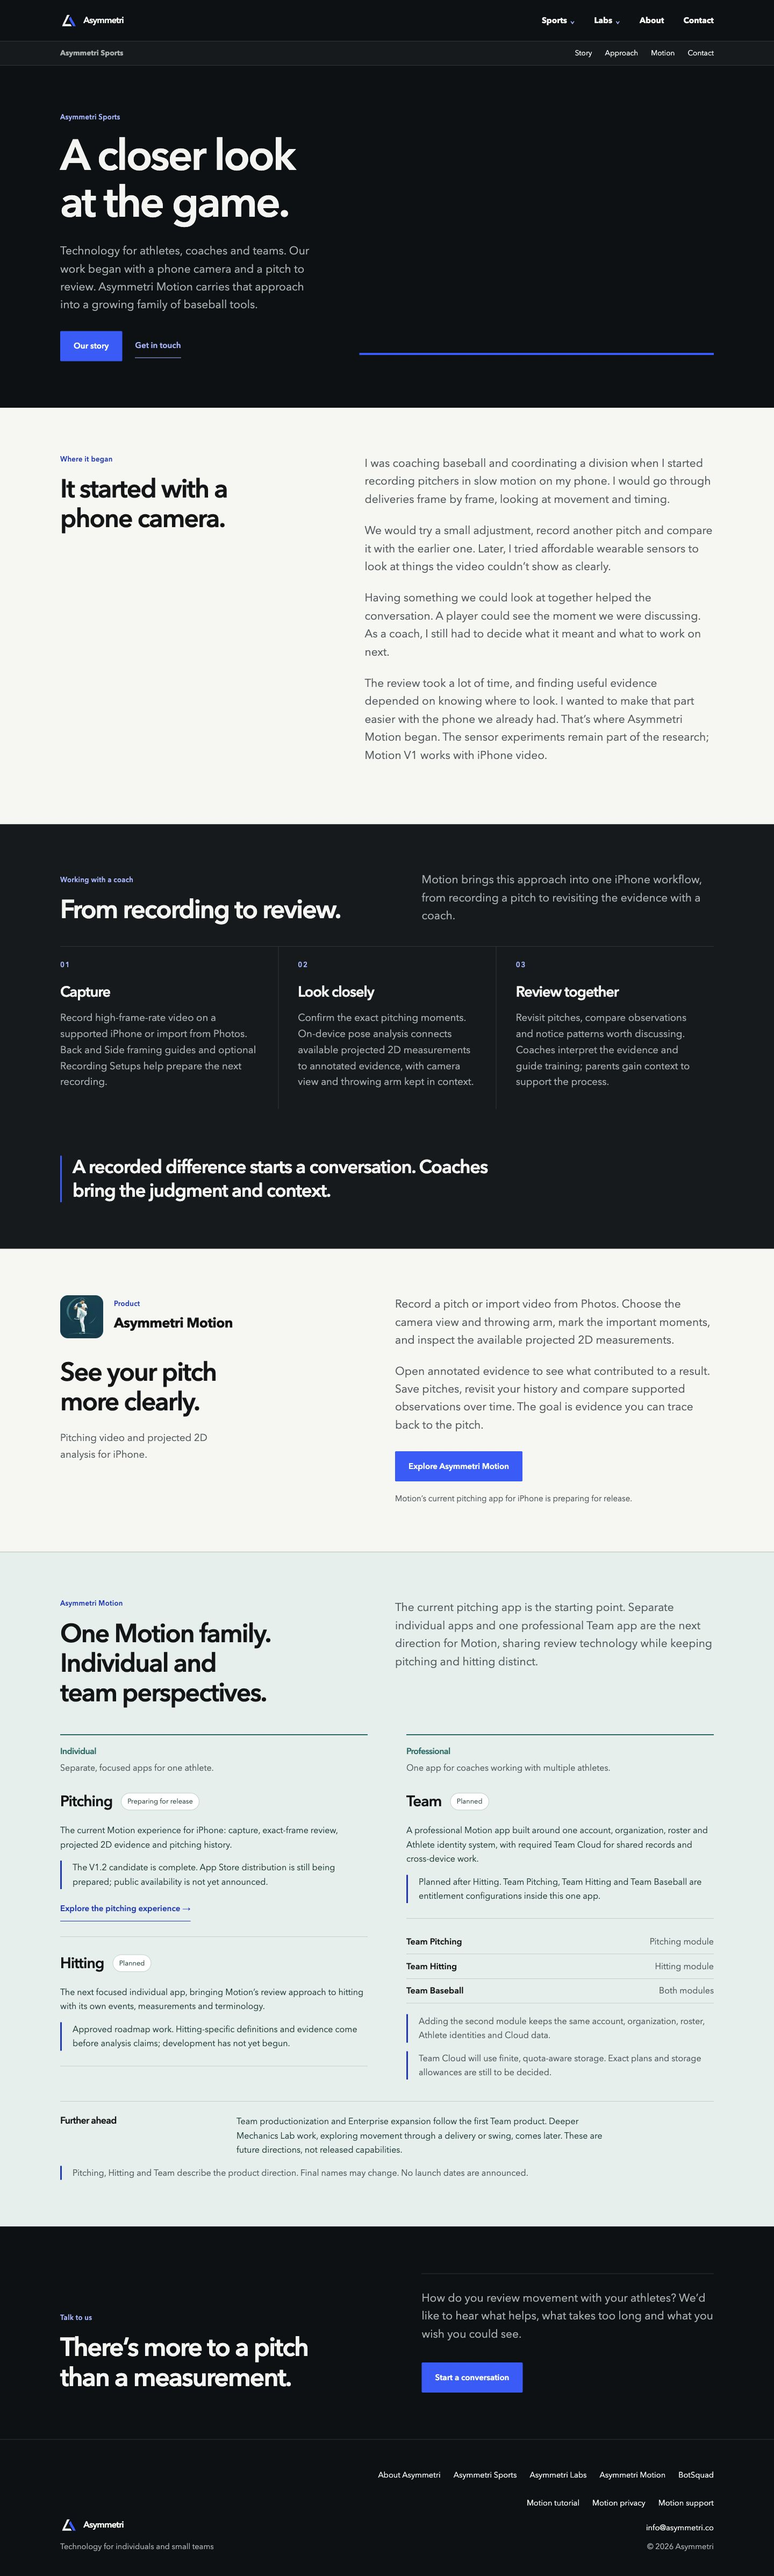
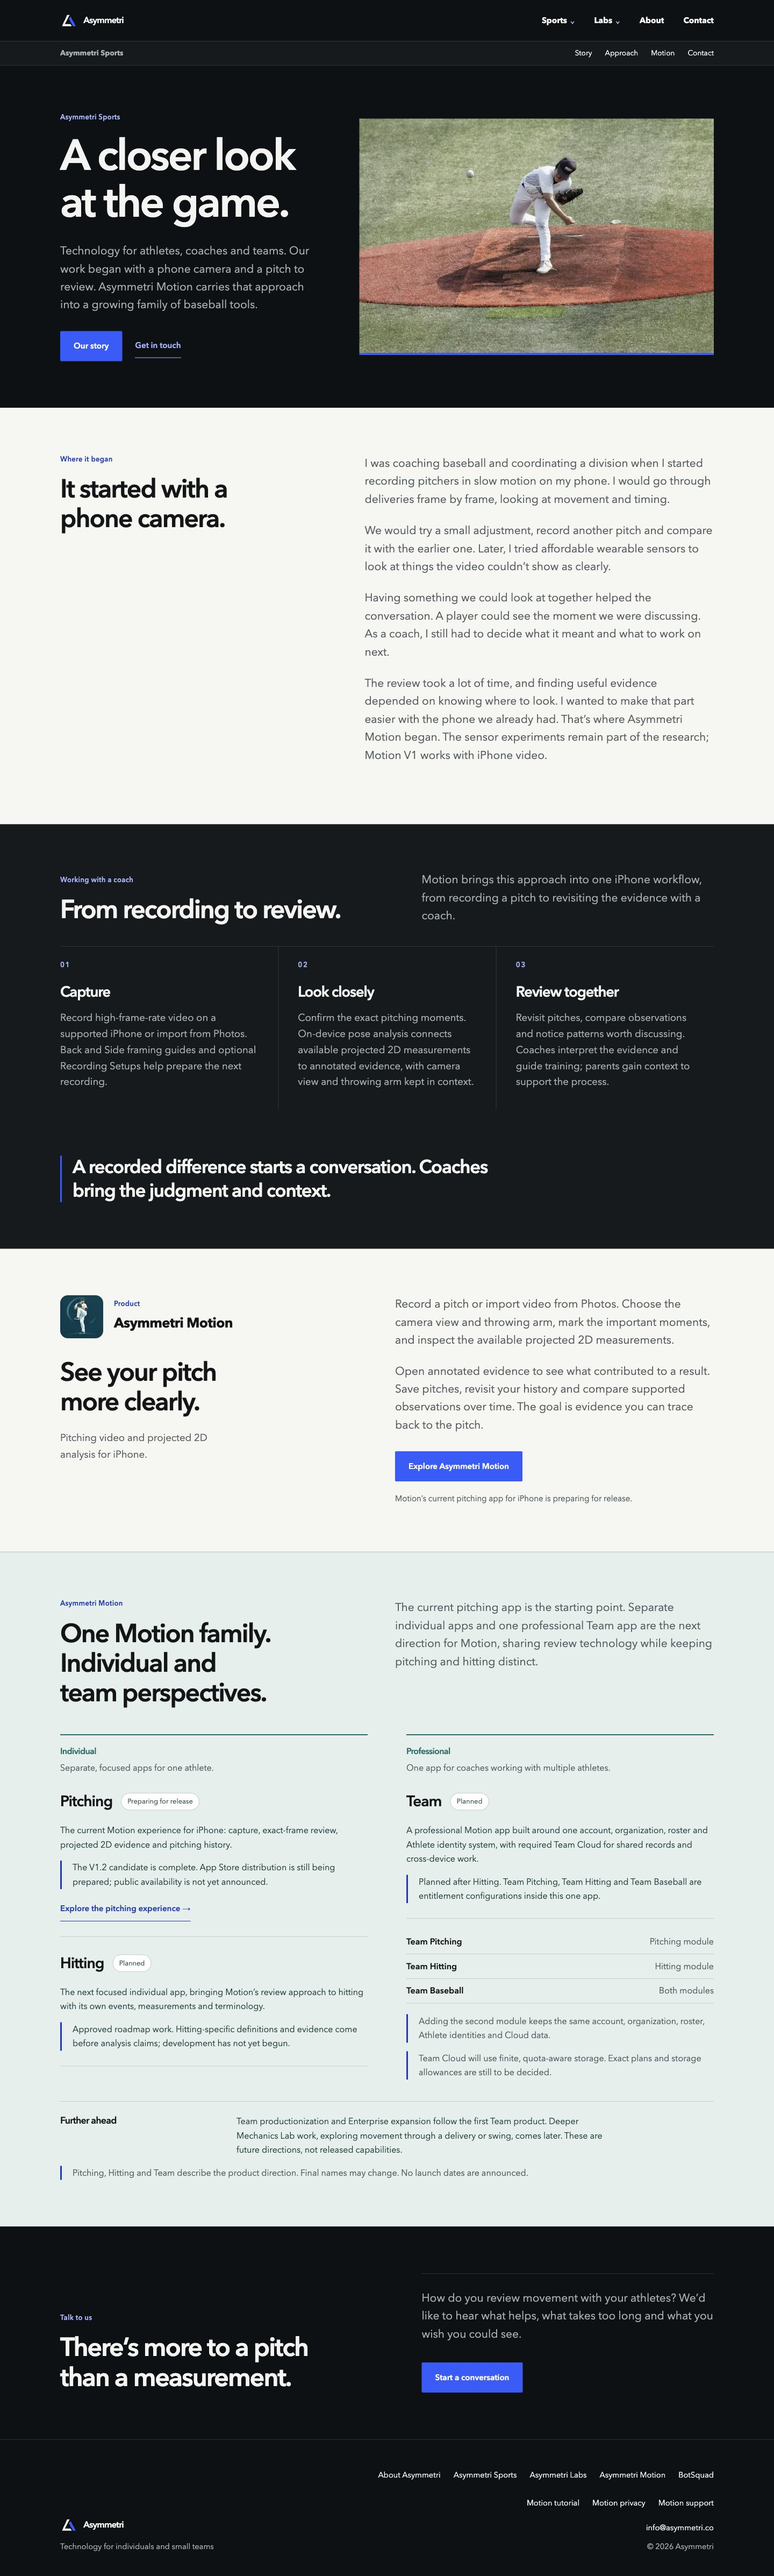
Finish dark theme screenshots and handoff

Changed region(s): [[0.4375, 0.0311, 0.9375, 0.1556]]

diff --git a/docs/DARK_THEME_EXPLORATION.md b/docs/DARK_THEME_EXPLORATION.md
@@ -8,14 +8,19 @@ Date: October 7, 2026. Status: experimental, local only. Owner selection pending
 - Baseline SHA: `c35ed81cd71bcfa0a96fd510e74046cff1a92386`.
 - The existing annotated production-release tag already marks current main. Its
   peeled remote target was verified, so no duplicate tag was created or moved.
-- Latest origin/main equals this SHA. The primary checkout was clean, with no
-  untracked files; no concurrent active website task or other worktree existed.
+- At initial setup, origin/main equalled this SHA and the primary checkout was
+  clean. Recovery confirmed the same local/remote main and the existing design
+  worktree; no unrelated work was changed.
 - Branch: `design/dark-theme-exploration-20261007`, separate managed worktree.
 - Production unchanged: **YES**. No SSH, deployment, hosted preview, main commit,
   merge, service restart, infrastructure edit or production asset change.
-- Preservation: two local commits, implementation followed by prompt journal.
-  The experimental branch is intentionally not pushed. The baseline tag is already
-  preserved on origin. No additional user choice is required to review the themes.
+- Preservation checkpoint: `36be16902110ec4a48481f6345a7020f624aa9a1`
+  (`Checkpoint dark theme exploration`), pushed immediately to
+  `origin/design/dark-theme-exploration-20261007` before further browser work.
+- Completion commit: `Finish dark theme screenshots and handoff`; its SHA and the
+  implementation history are recorded in the [completion journal](prompts/038-design.md).
+  Prompt journals follow in a separate documentation commit. The branch remains
+  experimental: pushing it is preservation, not publication or a production release.
 
 ## Open the study
 
@@ -121,7 +126,12 @@ there is no production feature flag or application component to untangle.
 A future chosen theme should be deliberately integrated as a separate owner-approved
 implementation, not by deploying this review tool or merging the whole branch.
 
-## Verification
+## Recovered validation evidence
+
+These results were completed before the final checkpoint request. They were
+retained rather than presented as newly rerun checks.
+
+### Original exploration
 
 - Node 24.10.0 matches `.nvmrc` major 24; nvm is unavailable. Unchanged lockfile
   installed with `npm ci`; no dependency changes or audit fix.
@@ -150,10 +160,62 @@ implementation, not by deploying this review tool or merging the whole branch.
   are byte-identical to baseline. No new public copy requires a new product claim.
 - Responsive screenshots: 15 desktop at 1440×1000, 15 full pages at 1440px wide,
   three homepage mobile at 390×844, three baseline desktop. Full-page captures were
-  checked for complete image loading and far-right/footer coverage.
-- Reduced-motion rules remove smooth scrolling, transitions and animations in every
-  theme. Existing player/tutorial behavior remains source-identical; see additional
-  interaction checks in the completion receipt for exercised actions.
+  checked for dimensions and page coverage. Recovery subsequently found and repaired
+  missing photograph pixels in the three Sports full-page exports; see below.
+- Reduced-motion CSS removes smooth scrolling, transitions and animations in every
+  theme. Rules were inspected; OS-level reduced-motion emulation was not performed.
+  Existing player/tutorial behavior remains source-identical.
 
 Browser matrix, HTTP parity and interaction receipts are also saved with the owner's
 local screenshot delivery. No production release was performed.
+
+
+### First recovery, before checkpoint
+
+- Re-ran `npm run check`, `npm run build:next`, `npm run build`, and
+  `npm audit --omit=dev`: passed. The same existing tutorial lint warning and
+  Vinext/Browserslist notices remain; production audit reports zero vulnerabilities.
+- Ran **81 additional rendered checks**, all three themes × all nine routes ×
+  320, 768 and 1440 actual CSS pixels. No overflow, visible clipping, missing alt
+  text, broken loaded images or measured text-contrast failures. Minimum: **5.12:1**.
+  No browser warnings/errors in the verification tab.
+- Repeated 320px keyboard checks in all themes: Enter and Space open menus;
+  Tab reaches 48px menu links with visible 3px focus outlines; Escape closes and
+  restores summary focus; outside clicks dismiss. These are inherited recovery
+  results, not another matrix run during completion.
+- Exercised desktop/mobile/full-page gallery selection and live theme/route changes,
+  including the protected Tutorial page. Motion's light panels and original teal,
+  BotSquad diagrams, captions, footer and utility readability were included in
+  the route checks and visual review.
+
+## Final checkpoint and completion checks
+
+Only screenshots and documentation changed after the checkpoint. No application,
+review-tool, theme CSS, dependency or build configuration changed. Accordingly,
+full builds and the 162/81-case matrices were **not repeated**.
+
+- Replaced only `cobalt-sports-full.jpg`, `teal-sports-full.jpg`, and
+  `signal-sports-full.jpg`. All three are **1440 × 4789**, with the actual hero
+  photograph, product icon, complete page width and footer visually confirmed.
+  Fresh tabs resolved an intermittent browser-export omission despite loaded-image
+  DOM status. No photograph was composited or recolored. The other 33 captures
+  remain byte-identical to the checkpoint.
+- Repository and delivery copies of all 36 screenshots match byte for byte.
+- Short comparison smoke test: Home/Sports/Labs desktop selectors load all three
+  themes; mobile loads 390px captures and disables the page selector; full-page
+  mode loads all three corrected Sports files at 1440 × 4789.
+- Live selectors render Cobalt/Home, Teal/Sports and Signal/Labs with the expected
+  headings, frame URLs and matching full-window links. No console warnings/errors.
+- `git diff --check`: passed. `docs/VISUAL_IDENTITY.md`, application sources,
+  product facts, public assets and dependencies remain identical to the baseline.
+- Production deployment performed: **NO**. Main merged: **NO**. Production service
+  restarted: **NO**. Production source changed: **NO**. Owner decision: **pending**.
+
+## Screenshot delivery
+
+The repository's authoritative set is `docs/previews/dark-themes/`. The synchronized
+owner delivery is `/Users/eugenelin/Desktop/Asymmetri/dark-theme-exploration-2026-10-07/`.
+Files use `{cobalt,teal,signal}-{home,sports,labs,motion,botsquad}-{desktop,full}.jpg`,
+plus each theme's `home-mobile.jpg` and three `baseline-*-desktop.jpg` references.
+Browser matrices, interaction checks and the final smoke receipt remain in the
+local delivery directory; no logs, caches or browser profiles are committed.

diff --git a/docs/ASSET_MANIFEST.md b/docs/ASSET_MANIFEST.md
@@ -418,3 +418,8 @@ Processing: native JPEG capture only. Role: local comparison, excluded from publ
 assets, sitemap and deployment entry points. Accessible gallery descriptions name
 the theme, page and viewport. Existing authentic-media approvals and synthetic
 concept labels carry through; screenshots grant no new athlete-media rights.
+
+Completion replaced only the three `*-sports-full.jpg` captures, correcting a
+browser export that omitted the loaded hero photograph. Each is 1440×4789;
+photograph and footer pixels were visually checked. The other 33 captures were
+preserved. No raster editing or public-asset changes were involved.
